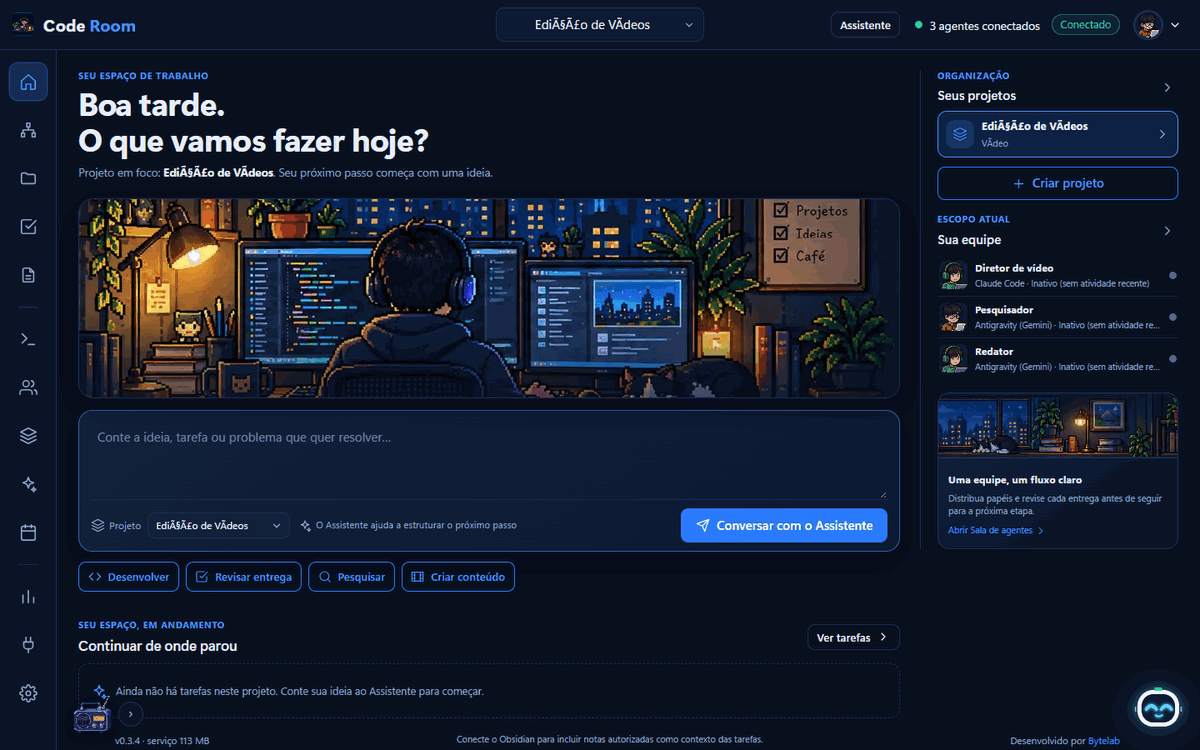
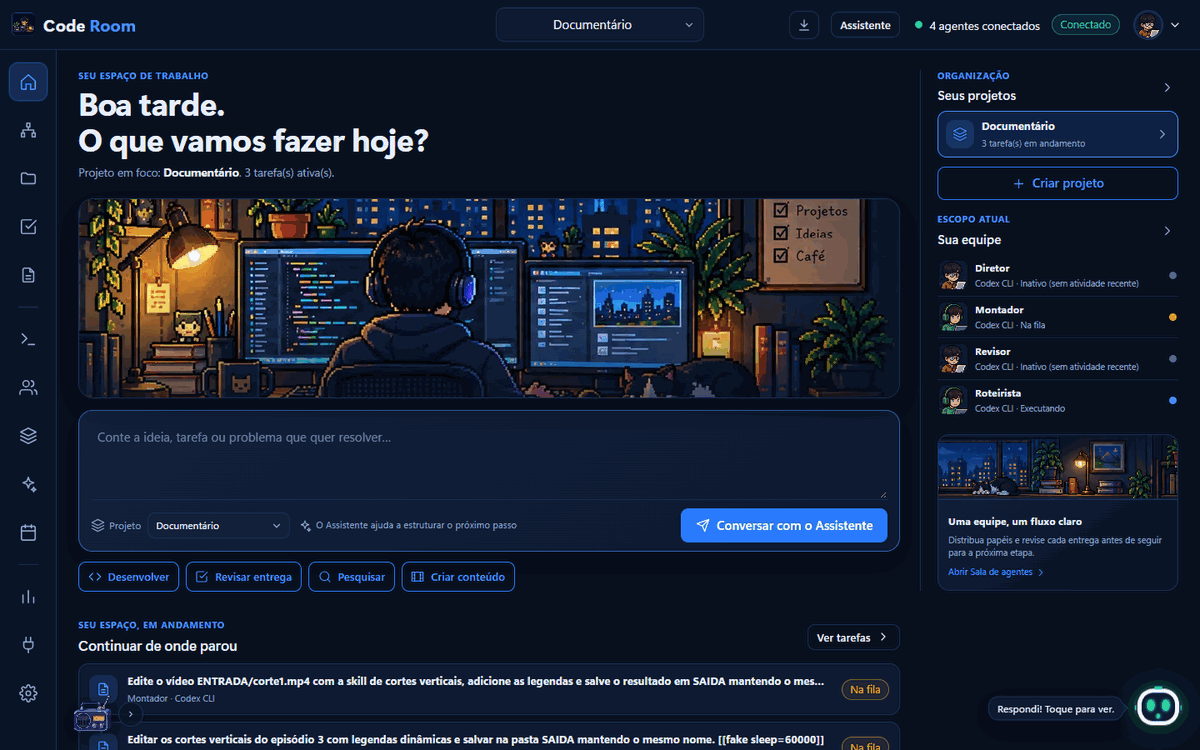
0.3.4: capturas da landing e do README atualizadas; texto do Cenario sem a vista em lista

diff --git a/public/views.js b/public/views.js
@@ -196,7 +196,7 @@ export function viewRoom(ctx) {
   return `<div class="page" style="padding-top:16px"><div class="cols c-2-1">
     <section class="card scene-card" aria-label="Escritório">
       <div class="scene-tools"><label class="small muted">Ambiente <select id="room-filter" style="display:inline-block;width:auto;margin-left:6px">${ctx.project ? `<option value="@projeto" ${ctx.roomMode() === '@projeto' ? 'selected' : ''}>Deste projeto (${ctx.projectAgentIds().size})</option>` : `<option value="" ${ctx.roomMode() === '' ? 'selected' : ''}>Todos</option>`}${rooms.map(r => `<option value="${esc(r)}" ${r === ctx.roomMode() ? 'selected' : ''}>${esc(r)}</option>`).join('')}</select></label>${(() => { const inP = new Set(ctx.projectAgentIds?.() || []), inT = new Set(ctx.projectTeamIds?.() || []), freeA = ctx.state.agents.filter(a => !inP.has(a.id)), tms = ctx.state.teams.filter(t => !inT.has(t.id)); return ctx.project && (freeA.length || tms.length) ? `<label class="small muted">Trazer <select id="member-add" aria-label="Trazer agente ou equipe para este projeto" style="display:inline-block;width:auto;margin-left:6px"><option value="">＋ para o projeto…</option>${tms.length ? `<optgroup label="Equipes">${tms.map(t => `<option value="t:${esc(t.id)}">👥 ${esc(t.name)}</option>`).join('')}</optgroup>` : ''}${freeA.length ? `<optgroup label="Agentes">${freeA.map(a => `<option value="a:${esc(a.id)}">🤖 ${esc(a.name)}</option>`).join('')}</optgroup>` : ''}</select></label>` : ''; })()}<span class="seg" role="group" aria-label="Modo de visualização">${[['scene', 'Cenário'], ['canvas', 'Canvas']].map(([k, l]) => `<button type="button" class="${mode === k ? 'on' : ''}" data-act="view-mode" data-id="${k}" aria-pressed="${mode === k}">${l}</button>`).join('')}</span></div>
-      ${mode === 'canvas' ? '<div id="canvas-slot"></div>' : mode === 'list' || mode === 'term' ? `<div class="agent-list${mode === 'term' ? ' term-grid' : ''}" style="padding:0 14px 14px">${agents.slice(0, mode === 'term' ? TERM_MAX : agents.length).map(a => mode === 'term' ? agentTerm(ctx, a) : agentRow(ctx, a)).join('') ||(ctx.project ? `<div class="empty">Este projeto ainda não tem agentes. <button type="button" class="link" data-act="project-team-suggest" data-id="${esc(ctx.project)}">Sugerir uma equipe com o Assistente</button> ou traga alguém no menu acima.</div>` : empty('Crie um agente em Agentes e ferramentas.'))}</div>` : `<div id="office" class="office-host"></div>${ctx.project && !agents.length ? `<div class="empty">Este projeto ainda não tem agentes. <button type="button" class="link" data-act="project-team-suggest" data-id="${esc(ctx.project)}">Sugerir uma equipe com o Assistente</button> ou traga alguém no menu acima.</div>` : ''}${more > 0 ? `<p class="muted small" style="padding:8px 16px 0">+${more} agente(s) fora das ${stations.length} estações. Use a vista em lista ou o filtro de ambiente.</p>` : ''}`}
+      ${mode === 'canvas' ? '<div id="canvas-slot"></div>' : mode === 'list' || mode === 'term' ? `<div class="agent-list${mode === 'term' ? ' term-grid' : ''}" style="padding:0 14px 14px">${agents.slice(0, mode === 'term' ? TERM_MAX : agents.length).map(a => mode === 'term' ? agentTerm(ctx, a) : agentRow(ctx, a)).join('') ||(ctx.project ? `<div class="empty">Este projeto ainda não tem agentes. <button type="button" class="link" data-act="project-team-suggest" data-id="${esc(ctx.project)}">Sugerir uma equipe com o Assistente</button> ou traga alguém no menu acima.</div>` : empty('Crie um agente em Agentes e ferramentas.'))}</div>` : `<div id="office" class="office-host"></div>${ctx.project && !agents.length ? `<div class="empty">Este projeto ainda não tem agentes. <button type="button" class="link" data-act="project-team-suggest" data-id="${esc(ctx.project)}">Sugerir uma equipe com o Assistente</button> ou traga alguém no menu acima.</div>` : ''}${more > 0 ? `<p class="muted small" style="padding:8px 16px 0">+${more} agente(s) fora das ${stations.length} estações. Veja todos no Canvas ou use o filtro de ambiente.</p>` : ''}`}
       <div class="status-strip">${strip}<button class="more" data-nav="deliveries">Ver entregas ${icon('arrow', 16)}</button></div></section>
     <aside>
       ${needsYou(ctx)}

diff --git a/scripts/capturas-landing.py b/scripts/capturas-landing.py
@@ -28,6 +28,7 @@ try:
     P = api('projects', {'name': 'Documentário', 'path': proj.replace(chr(92), '/'), 'area': 'Vídeo'})
     mk = lambda n, r, m, c: api('agents', {'name': n, 'role': r, 'room': 'Vídeo', 'provider': 'codex', 'model': '', 'instructions': '', 'mode': m, 'skillIds': [], 'capabilities': c})
     dire, rot, mon, rev = mk('Diretor', 'Dirige o documentário', 'read', ['review']), mk('Roteirista', 'Escreve o roteiro', 'write', ['writing']), mk('Montador', 'Edita os vídeos', 'write', ['video.edit']), mk('Revisor', 'Confere a edição', 'read', ['review'])
+    api('projects/members', {'projectId': P['id'], 'add': [dire['id'], rot['id'], mon['id'], rev['id']]})   # desde a 0.3.4 cada projeto mostra só os agentes ligados a ele
     api('teams', {'name': 'Equipe de Vídeo', 'members': [{'role': 'desenvolvedor', 'agentId': mon['id']}, {'role': 'revisor', 'agentId': rev['id']}]})
     api('links', {'projectId': P['id'], 'from': dire['id'], 'to': rot['id'], 'maxHops': 2}); api('links', {'projectId': P['id'], 'from': rot['id'], 'to': mon['id'], 'maxHops': 2})
     api('tasks', {'projectId': P['id'], 'agentId': rot['id'], 'requestId': 'c1', 'objective': 'Escrever o roteiro do episódio 3 com gancho nos primeiros segundos, três blocos e chamada final, seguindo o briefing do projeto. [[fake sleep=60000]]'})
@@ -38,7 +39,7 @@ try:
     api('folderjobs', {'name': 'Cortes verticais', 'projectId': P['id'], 'dir': 'ENTRADA', 'exts': 'mp4', 'agentId': mon['id'], 'instruction': 'Edite o vídeo {arquivo} com a skill de cortes verticais, adicione as legendas e salve o resultado em SAIDA mantendo o mesmo nome. [[fake sleep=60000]]', 'parallel': 1})
     time.sleep(4)
     ALERTS = []
-    ASSIST = {'manual': {'available': True}, 'briefed': True, 'stale': False, 'provider': 'claude', 'connected': ['claude', 'codex'], 'error': None, 'pending': None, 'briefing': None, 'alerts': ALERTS, 'thread': 't1', 'threads': [{'id': 't1', 'title': 'Documentário', 'active': True, 'count': 2}, {'id': 't2', 'title': 'Revisão de legendas', 'active': False, 'count': 0}],
+    ASSIST = {'manual': {'available': True}, 'briefed': True, 'name': 'Nico', 'stale': False, 'provider': 'claude', 'connected': ['claude', 'codex'], 'error': None, 'pending': None, 'briefing': None, 'alerts': ALERTS, 'thread': 't1', 'threads': [{'id': 't1', 'title': 'Documentário', 'active': True, 'count': 2}, {'id': 't2', 'title': 'Revisão de legendas', 'active': False, 'count': 0}],
       'messages': [{'id': 'u1', 'role': 'user', 'text': 'Quero editar um documentário com cortes verticais. O que você sugere?', 'at': '2026-11-07T10:00:00Z'},
         {'id': 'a1', 'role': 'assistant', 'text': 'Sugiro uma equipe com **4 agentes** e uma pasta de entrada para os cortes:\n- Diretor, Roteirista, Montador e Revisor\n- cada vídeo da pasta vira uma tarefa, e eu aviso quando todos terminarem', 'at': '2026-11-07T10:00:06Z', 'actions': [
           {'idx': 0, 'type': 'criar_equipe', 'summary': 'Criar a equipe “Equipe de Vídeo”: desenvolvedor → Montador, revisor → Revisor', 'valid': True, 'status': 'pending'},
@@ -48,14 +49,16 @@ try:
         b = pw.chromium.launch(channel='chrome', headless=True)
         def page(w, h, mobile, mode='scene', chat=False):
             c = b.new_context(viewport={'width': w, 'height': h}, has_touch=mobile, is_mobile=mobile, device_scale_factor=1)
-            c.add_init_script("try { localStorage.setItem('cr.onb', JSON.stringify({setupDone:true,tourDone:true})); localStorage.setItem('cr.prefs', JSON.stringify({mode:'%s'})); localStorage.setItem('cr.chat', JSON.stringify({open:%s})); } catch (e) {}" % (mode, 'true' if chat else 'false'))
+            c.add_init_script("try { localStorage.setItem('cr.onb', JSON.stringify({setupDone:true,tourDone:true})); localStorage.setItem('cr.prefs', JSON.stringify({mode:'%s', cvTerm:true, newLookSeen:'0.3.4'})); localStorage.setItem('cr.chat', JSON.stringify({open:%s})); } catch (e) {}" % (mode, 'true' if chat else 'false'))
             p = c.new_page(); p.route('**/api/assistant', lambda r: r.fulfill(status=200, headers={'Content-Type': 'application/json'}, body=json.dumps(ASSIST)))
             p.goto(URL); p.wait_for_selector('#rail button', timeout=15000); time.sleep(2.2); p.evaluate("document.querySelectorAll('.cb-dot').forEach(e => e.remove())"); return c, p
-        c, p = page(1440, 900, False, 'scene', True); p.screenshot(path=os.path.join(DEST, 'desktop-room.png')); c.close()
-        c, p = page(1440, 900, False, 'canvas', False); p.wait_for_selector('.cv-node', timeout=8000); time.sleep(1.0); p.screenshot(path=os.path.join(DEST, 'desktop-canvas.png')); c.close()
+        c, p = page(1440, 900, False, 'scene', False); p.screenshot(path=os.path.join(DEST, 'desktop-home.png')); c.close()
+        c, p = page(1440, 900, False, 'scene', True); p.click('[data-nav=room]'); time.sleep(1.5); p.screenshot(path=os.path.join(DEST, 'desktop-room.png')); c.close()
+        c, p = page(1440, 900, False, 'scene', False); p.click('[data-nav=agents]'); time.sleep(0.6); p.click('[data-act=agents-tab][data-id=library]'); p.wait_for_selector('.lib-card', timeout=8000); time.sleep(0.8); p.screenshot(path=os.path.join(DEST, 'desktop-library.png')); c.close()
+        c, p = page(1440, 900, False, 'canvas', False); p.click('[data-nav=room]'); p.wait_for_selector('.cv-node', timeout=8000); time.sleep(1.5); p.click('[data-cv-zoom=fit]'); time.sleep(1.0); p.screenshot(path=os.path.join(DEST, 'desktop-canvas.png')); c.close()
         c, p = page(1440, 900, False, 'scene', False); p.click('[data-nav=routines]'); p.wait_for_selector('.fj-card'); time.sleep(1.0); p.evaluate("document.querySelector('.fj-card').scrollIntoView({block:'center'})"); time.sleep(0.6); p.screenshot(path=os.path.join(DEST, 'desktop-routines.png')); c.close()
         ALERTS.append({'id': 'fail:1', 'level': 'bad', 'title': 'Montador não conseguiu terminar', 'text': 'x', 'ask': 'x'})
-        c, p = page(390, 844, True, 'scene', False); p.screenshot(path=os.path.join(DEST, 'celular-room.png')); c.close(); ALERTS.clear()
+        c, p = page(390, 844, True, 'scene', False); p.click('[data-nav=room]'); time.sleep(1.5); p.screenshot(path=os.path.join(DEST, 'celular-room.png')); c.close(); ALERTS.clear()
         c, p = page(390, 844, True, 'scene', False); p.click('[data-nav=routines]'); p.wait_for_selector('.fj-card'); time.sleep(0.8); p.evaluate("document.querySelector('.fj-card').scrollIntoView(); window.scrollBy(0, -80)"); time.sleep(0.6); p.screenshot(path=os.path.join(DEST, 'celular-routines.png')); c.close()
         b.close()
     print('capturas gravadas em', DEST)
